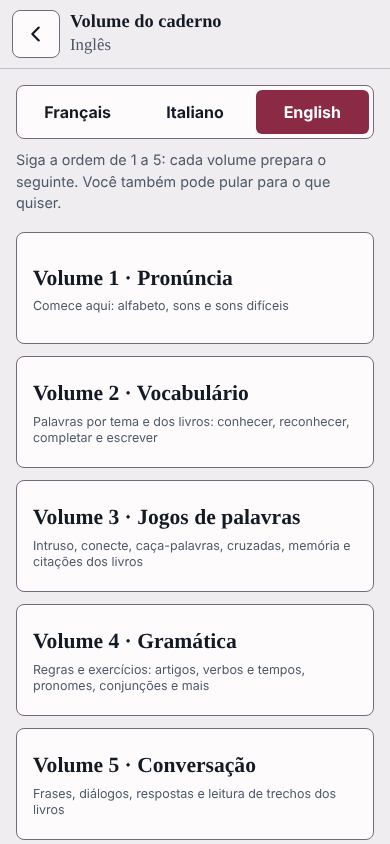
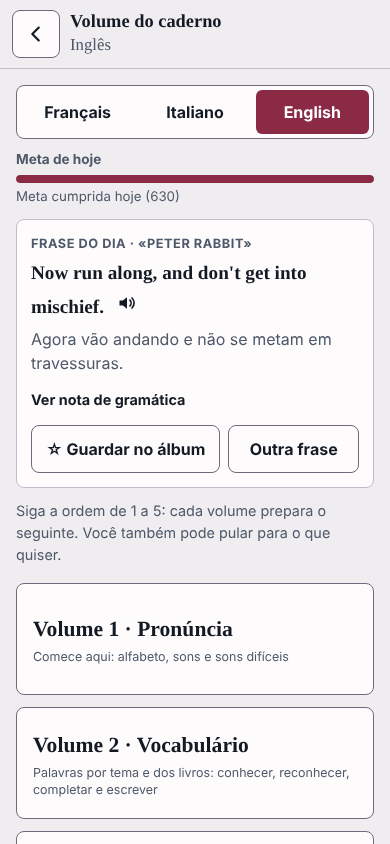
Menu mais limpo (meta e frase do dia em Lições), notas de atualização e cartões Fácil/Preciso rever (v1.34.0)
Claude-Session: https://claude.ai/code/session_01Dathk5Mq2xmVxGuA1bxLYG

diff --git a/index.html b/index.html
@@ -366,7 +366,7 @@ svg{display:block}
 .tgl{margin:0 0 10px;min-height:40px;padding:4px 12px;font-size:.9rem}
 .gbar{display:block;width:100%;height:8px;margin-top:6px;border-radius:99px;background:color-mix(in srgb,currentColor 25%,transparent);overflow:hidden}
 .gbar i{display:block;height:100%;width:0;background:currentColor;border-radius:99px}
-.tile.today small#goal-txt{margin-top:2px}
+.news{margin:0 0 16px}.news h3{font-size:1rem;margin:0 0 6px}.news ul{margin:0;padding-left:20px}.news li{margin:3px 0}.goalbox{margin:0 0 12px}.goalbox b{display:block;font-size:.85rem;color:var(--muted)}.goalbox .gbar{background:var(--line)}.goalbox .gbar i{background:var(--accent)}.goalbox small{display:block;margin-top:4px;color:var(--muted)}.s-vol-qod,#s-vol .qod{margin:0 0 12px}
 #go-settings{grid-column:1/-1;min-height:64px;flex-direction:row;align-items:center;gap:12px}
 #go-settings svg{margin:0}
 #go-settings small{display:none}
@@ -513,8 +513,7 @@ svg{display:block}
         <div class="row"><button type="button" class="btn primary" id="bk-warn-go">Fazer backup agora</button><button type="button" class="btn" id="bk-warn-later">Lembrar em 7 dias</button></div>
       </div>
       <div class="tiles">
-        <button type="button" class="tile today" id="go-today"><svg viewBox="0 0 24 24" width="26" height="26" fill="none" stroke="currentColor" stroke-width="1.9" stroke-linecap="round" stroke-linejoin="round" aria-hidden="true"><circle cx="12" cy="12" r="8"/><path d="M12 7v5l3 2"/></svg><b>Hoje</b><small id="today-sub">Revisão e uma página nova</small><span class="gbar" aria-hidden="true"><i id="goal-fill"></i></span><small id="goal-txt"></small></button>
-        <section class="qod" id="qod" hidden aria-label="Frase do dia"></section>
+        <button type="button" class="tile today" id="go-today"><svg viewBox="0 0 24 24" width="26" height="26" fill="none" stroke="currentColor" stroke-width="1.9" stroke-linecap="round" stroke-linejoin="round" aria-hidden="true"><circle cx="12" cy="12" r="8"/><path d="M12 7v5l3 2"/></svg><b>Hoje</b><small id="today-sub">Revisão e uma página nova</small></button>
         <button type="button" class="tile" id="go-games"><svg viewBox="0 0 24 24" width="26" height="26" fill="none" stroke="currentColor" stroke-width="1.9" stroke-linecap="round" stroke-linejoin="round" aria-hidden="true"><path d="M4 5h7v14H4zM13 5h7v14h-7z"/></svg><b>Lições</b><small>Pronúncia, vocabulário, jogos, gramática e conversa</small></button>
         <button type="button" class="tile" id="go-train"><svg viewBox="0 0 24 24" width="26" height="26" fill="none" stroke="currentColor" stroke-width="1.9" stroke-linecap="round" stroke-linejoin="round" aria-hidden="true"><path d="M4 20l4-1 11-11-3-3L5 16zM14 7l3 3"/></svg><b>Treino</b><small id="train-sub">Digitar verbos e palavras</small></button>
         <button type="button" class="tile" id="go-books"><svg viewBox="0 0 24 24" width="26" height="26" fill="none" stroke="currentColor" stroke-width="1.9" stroke-linecap="round" stroke-linejoin="round" aria-hidden="true"><path d="M5 4h11a3 3 0 0 1 3 3v13H8a3 3 0 0 1-3-3zM5 17a3 3 0 0 1 3-3h11"/></svg><b>Livros</b><small>Progresso, frases, leitura e álbum</small></button>
@@ -569,6 +568,8 @@ svg{display:block}
     </header>
     <div class="scroll">
       <div class="seg" role="group" aria-label="Idioma" style="margin-bottom:10px"><button type="button" data-k="lang" data-v="fr">Français</button><button type="button" data-k="lang" data-v="it">Italiano</button><button type="button" data-k="lang" data-v="en">English</button></div>
+      <div class="goalbox"><b>Meta de hoje</b><span class="gbar" aria-hidden="true"><i id="goal-fill"></i></span><small id="goal-txt"></small></div>
+      <section class="qod" id="qod" hidden aria-label="Frase do dia"></section>
       <p class="help">Siga a ordem de 1 a 5: cada volume prepara o seguinte. Você também pode pular para o que quiser.</p>
       <div class="tiles one">
         <button type="button" class="tile plain" data-pick-vol="2"><b>Volume 1 · Pronúncia</b><small>Comece aqui: alfabeto, sons e sons difíceis</small></button>
@@ -731,6 +732,7 @@ svg{display:block}
           <section>
             <h2 class="lab">Sobre e ajuda</h2>
             <p class="help" id="ver-set"></p>
+            <button type="button" class="btn wide" id="open-news">Novidades desta versão</button>
             <button type="button" class="btn wide" data-feedback>Enviar sugestão ou avisar de erro</button>
           </section>
         </div>
@@ -777,6 +779,14 @@ svg{display:block}
       <div class="row" style="margin:10px 0"><button type="button" class="btn" id="books-album">★ Álbum de citações</button></div>
       <div id="books-list"></div>
     </div>
+  </section>
+
+  <section class="screen" id="s-news" hidden>
+    <header class="bar">
+      <button type="button" class="btn icon" data-back="settings" aria-label="Voltar aos ajustes"><svg viewBox="0 0 24 24" width="22" height="22" aria-hidden="true"><path d="M15 5l-7 7 7 7" fill="none" stroke="currentColor" stroke-width="2.4" stroke-linecap="round" stroke-linejoin="round"/></svg></button>
+      <div class="ttl"><h2>Novidades</h2><p class="vol" id="news-ver"></p></div>
+    </header>
+    <div class="scroll"><div id="news-list"></div></div>
   </section>
 
   <section class="screen" id="s-album" hidden>
@@ -913,7 +923,7 @@ svg{display:block}
 <div id="toast" role="status" aria-live="polite" hidden></div>
 
 <script>
-const APP_REL={v:"1.33.0",d:"2026-10-19"};
+const APP_REL={v:"1.34.0",d:"2026-10-20"};
 
 
 const RAW={
@@ -2654,7 +2664,7 @@ function skRec(w,label,ok){
 function seedNow(){seedWith(S.lang+"|"+(P.vid||curVol().id)+"|"+P.id);}
 
 let clearStatsArmed=false;
-const SCREENS=["home","lang","vol","index","stats","settings","profile","game","feedback","dict","books","album","reader"];
+const SCREENS=["home","lang","vol","index","stats","settings","profile","game","feedback","dict","books","album","reader","news"];
 let clearArmed=false;
 function go(name){
   SCREENS.forEach(s=>{$("#s-"+s).hidden=s!==name;});
@@ -2664,7 +2674,7 @@ function go(name){
   if(name==="home"){renderMe();if(typeof renderQod==="function")renderQod();}
   if(name==="books"&&typeof renderBooks==="function")renderBooks();
   if(name==="album"&&typeof renderAlbum==="function")renderAlbum();
-  if(name==="vol")$("#vol-lang").textContent=LNAME[S.lang];
+  if(name==="vol"){$("#vol-lang").textContent=LNAME[S.lang];if(typeof renderToday==="function")renderToday();if(typeof renderQod==="function")renderQod();}
   if(name==="stats"){syncPrefs();renderStats();}
   if(name==="settings"){bkReset();clearArmed=false;$("#clear-note").textContent="";syncPrefs();}
   if(name==="profile"){clearStatsArmed=false;$("#clear-stats-note").textContent="";syncPrefs();}
@@ -2833,6 +2843,7 @@ function onPrefClick(e){
   if(k)S[k.dataset.k]=k.dataset.k==="vol"?+k.dataset.v:k.dataset.v;else if(p)S.pal=p.dataset.pal;else return;
   save();applyTheme();
   if(k&&(k.dataset.k==="lang"||k.dataset.k==="vol"))renderIndex();else syncPrefs();
+  if(k&&k.dataset.k==="lang"&&!$("#s-vol").hidden){if(typeof renderToday==="function")renderToday();if(typeof renderQod==="function")renderQod();}
   if(k&&(k.dataset.k==="sound"||k.dataset.k==="snd"))sfx("ok");
   if(k&&k.dataset.k==="hap"&&S.hap==="on"){try{navigator.vibrate&&navigator.vibrate([40,30,40]);}catch(_){}}
 }
@@ -3792,6 +3803,7 @@ function openTrainMenu(){
     '<div class="seg" role="group" aria-label="Idioma do treino" style="margin-bottom:12px">'+Object.keys(LNAME).map(l=>'<button type="button" data-trainlang="'+l+'" aria-pressed="'+(l===S.lang)+'">'+LNAME[l]+"</button>").join("")+"</div>"+
     '<p class="help">Cada rodada tem 10 itens. Sem regra na tela: é para testar o que você já sabe. «Revisar palavras que errei» usa as palavras em que você errou mais do que acertou; cada acerto aqui as tira da lista.</p>'+
     Object.keys(L).map(t=>'<button type="button" class="btn wide" data-train="v|'+esc(t)+'" style="margin-bottom:8px">Verbos em '+esc(LNAME[S.lang])+": "+esc(L[t])+"</button>").join("")+
+    '<button type="button" class="btn wide" id="train-cards" style="margin-bottom:8px">Cartões de revisão: Fácil / Preciso rever ('+(typeof dueWords==="function"?dueWords().length:0)+")</button>"+
     '<button type="button" class="btn wide" data-train="r" style="margin-bottom:8px"'+(nw?"":" disabled")+'>Revisar palavras que errei ('+nw+")</button>"+
     '<button type="button" class="btn wide" data-train="w" style="margin-bottom:8px">Palavras: português → '+esc(LNAME[S.lang])+"</button>",false);
 }
@@ -4656,6 +4668,70 @@ window.BOOKTXT_INFO={"peter":{"total":1,"chs":[{"n":1,"t":"The Tale of Peter Rab
   window.openReader=openReader;
   renderQod();
 })();
+
+/* ===== Cartões de revisão com autoavaliação: «Fácil» / «Preciso rever». Sem tempo, sem pontos. ===== */
+(function(){
+  let deck=[],ci=0,shown=false,easy=0,hard=0;
+  window.dueWords=function(){return dueKeys().filter(x=>x[2]===1).slice(0,10).map(x=>x[1]);};
+  function grade(key,ok){
+    const cur=S.rvv[key];if(!cur)return;
+    const lp=cur[2]||0;
+    if(ok){const st=cur[1]+1;if(st>=RV_STEPS.length)delete S.rvv[key];else S.rvv[key]=[rvDue(rvIvl(st,lp)),st,lp];}
+    else S.rvv[key]=[rvDue(1),Math.max(0,cur[1]-2),Math.min(99,lp+1)];
+    save();
+  }
+  function render(){
+    if(ci>=deck.length){
+      openSheet("Cartões concluídos",'<p class="help">Você passou por '+deck.length+' palavra(s): '+easy+' «Fácil» e '+hard+' «Preciso rever». As que precisam de revisão voltam amanhã; as fáceis demoram mais para voltar.</p><button type="button" class="btn wide" id="cards-again">Ver se há mais cartões</button>',false);
+      return;
+    }
+    const r=rvVocab(deck[ci]);
+    if(!r){ci++;render();return;}
+    const e=r.e;
+    openSheet("Cartão "+(ci+1)+" de "+deck.length,
+      '<p class="card-w">'+esc(full(e))+" "+speakBtn(full(e))+"</p>"+
+      (shown?'<p class="card-pt">'+esc(e.pt)+'</p><div class="row"><button type="button" class="btn wide" id="card-easy">Fácil</button><button type="button" class="btn wide" id="card-hard">Preciso rever</button></div>':'<p class="help">Tente lembrar o significado antes de virar.</p><button type="button" class="btn wide primary" id="card-show">Mostrar significado</button>'),false);
+  }
+  function start(){
+    deck=dueWords();ci=0;shown=false;easy=0;hard=0;
+    if(!deck.length){openSheet("Nenhuma palavra para hoje",'<p class="help">Não há palavras vencidas em '+esc(LNAME[S.lang])+' agora. As palavras em que você erra nas lições entram aqui no dia seguinte.</p>',false);return;}
+    render();
+  }
+  window.startCards=start;
+  document.addEventListener("click",e=>{
+    const t=e.target;if(!t.closest)return;
+    if(t.closest("#card-show")){shown=true;render();}
+    else if(t.closest("#card-easy")||t.closest("#card-hard")){const ok=!!t.closest("#card-easy");grade(deck[ci],ok);ok?easy++:hard++;ci++;shown=false;render();}
+    else if(t.closest("#cards-again")){start();}
+    else if(t.closest("#train-cards")){closeSheet();start();}
+  });
+})();
+
+/* Notas de atualização: mais nova primeiro. Acrescente uma entrada a cada versão publicada (mesmo número de VERSION). */
+const NOVIDADES=[
+{v:"1.34.0",d:"2026-10-20",t:[
+"Meta de hoje e Frase do dia agora ficam em Lições (a tela inicial ficou mais limpa)",
+"Novo: notas de atualização (Ajustes → Sobre e ajuda → Novidades)",
+"Novo: cartões de revisão no Treino, com «Fácil» e «Preciso rever» (sem tempo e sem pontos)"]},
+{v:"1.33.0",d:"2026-10-19",t:[
+"Tradução literal (segue a ordem do original) e natural, com botão para alternar nos contos, em Alice, O Príncipe e nos livros italianos",
+"Citação e «De qual livro?»: tradução só aparece pelo botão de dica",
+"Frases erradas voltam para revisão no dia seguinte"]},
+{v:"1.32.1",d:"2026-10-19",t:["Intruso: a tradução só aparece depois de acertar"]},
+{v:"1.32.0",d:"2026-10-19",t:[
+"Contos de Collodi completos (15 contos)",
+"Vocabulário ampliado: Perrault, Collodi, Mosqueteiros e Divina Comédia"]},
+{v:"1.30.0",d:"2026-10-19",t:["Novo livro em italiano: contos de Collodi («I racconti delle fate»)"]},
+{v:"1.29.0",d:"2026-10-19",t:["Texto completo de 17 contos dos Irmãos Grimm (inglês)"]},
+{v:"1.28.0",d:"2026-10-19",t:["Vocabulário ampliado de Alice, Vento nos Salgueiros, Sherlock e Frankenstein","Novo livro de vocabulário: Contos dos Irmãos Grimm"]},
+{v:"1.27.0",d:"2026-10-19",t:["Contos de Perrault completos (francês)","Estilos novos: Salão das Fadas, Floresta Encantada, Contos à Luz de Vela","Estilos visuais agrupados em Ajustes"]}
+];
+function renderNews(){
+  const el=$("#news-list");if(!el)return;
+  el.innerHTML=NOVIDADES.map(n=>'<article class="news"><h3>Versão '+esc(n.v)+' · '+esc(n.d.split("-").reverse().join("/"))+'</h3><ul>'+n.t.map(x=>"<li>"+esc(x)+"</li>").join("")+"</ul></article>").join("");
+}
+window.renderNews=renderNews;
+document.addEventListener("click",e=>{if(e.target.closest&&e.target.closest("#open-news")){go("news");renderNews();}});
 
 /* ===== Início ===== */
 buildSettings();applyTheme();buildKb();go("home");

diff --git a/src/p2.html b/src/p2.html
@@ -15,8 +15,7 @@
         <div class="row"><button type="button" class="btn primary" id="bk-warn-go">Fazer backup agora</button><button type="button" class="btn" id="bk-warn-later">Lembrar em 7 dias</button></div>
       </div>
       <div class="tiles">
-        <button type="button" class="tile today" id="go-today"><svg viewBox="0 0 24 24" width="26" height="26" fill="none" stroke="currentColor" stroke-width="1.9" stroke-linecap="round" stroke-linejoin="round" aria-hidden="true"><circle cx="12" cy="12" r="8"/><path d="M12 7v5l3 2"/></svg><b>Hoje</b><small id="today-sub">Revisão e uma página nova</small><span class="gbar" aria-hidden="true"><i id="goal-fill"></i></span><small id="goal-txt"></small></button>
-        <section class="qod" id="qod" hidden aria-label="Frase do dia"></section>
+        <button type="button" class="tile today" id="go-today"><svg viewBox="0 0 24 24" width="26" height="26" fill="none" stroke="currentColor" stroke-width="1.9" stroke-linecap="round" stroke-linejoin="round" aria-hidden="true"><circle cx="12" cy="12" r="8"/><path d="M12 7v5l3 2"/></svg><b>Hoje</b><small id="today-sub">Revisão e uma página nova</small></button>
         <button type="button" class="tile" id="go-games"><svg viewBox="0 0 24 24" width="26" height="26" fill="none" stroke="currentColor" stroke-width="1.9" stroke-linecap="round" stroke-linejoin="round" aria-hidden="true"><path d="M4 5h7v14H4zM13 5h7v14h-7z"/></svg><b>Lições</b><small>Pronúncia, vocabulário, jogos, gramática e conversa</small></button>
         <button type="button" class="tile" id="go-train"><svg viewBox="0 0 24 24" width="26" height="26" fill="none" stroke="currentColor" stroke-width="1.9" stroke-linecap="round" stroke-linejoin="round" aria-hidden="true"><path d="M4 20l4-1 11-11-3-3L5 16zM14 7l3 3"/></svg><b>Treino</b><small id="train-sub">Digitar verbos e palavras</small></button>
         <button type="button" class="tile" id="go-books"><svg viewBox="0 0 24 24" width="26" height="26" fill="none" stroke="currentColor" stroke-width="1.9" stroke-linecap="round" stroke-linejoin="round" aria-hidden="true"><path d="M5 4h11a3 3 0 0 1 3 3v13H8a3 3 0 0 1-3-3zM5 17a3 3 0 0 1 3-3h11"/></svg><b>Livros</b><small>Progresso, frases, leitura e álbum</small></button>
@@ -71,6 +70,8 @@
     </header>
     <div class="scroll">
       <div class="seg" role="group" aria-label="Idioma" style="margin-bottom:10px"><button type="button" data-k="lang" data-v="fr">Français</button><button type="button" data-k="lang" data-v="it">Italiano</button><button type="button" data-k="lang" data-v="en">English</button></div>
+      <div class="goalbox"><b>Meta de hoje</b><span class="gbar" aria-hidden="true"><i id="goal-fill"></i></span><small id="goal-txt"></small></div>
+      <section class="qod" id="qod" hidden aria-label="Frase do dia"></section>
       <p class="help">Siga a ordem de 1 a 5: cada volume prepara o seguinte. Você também pode pular para o que quiser.</p>
       <div class="tiles one">
         <button type="button" class="tile plain" data-pick-vol="2"><b>Volume 1 · Pronúncia</b><small>Comece aqui: alfabeto, sons e sons difíceis</small></button>
@@ -233,6 +234,7 @@
           <section>
             <h2 class="lab">Sobre e ajuda</h2>
             <p class="help" id="ver-set"></p>
+            <button type="button" class="btn wide" id="open-news">Novidades desta versão</button>
             <button type="button" class="btn wide" data-feedback>Enviar sugestão ou avisar de erro</button>
           </section>
         </div>
@@ -279,6 +281,14 @@
       <div class="row" style="margin:10px 0"><button type="button" class="btn" id="books-album">★ Álbum de citações</button></div>
       <div id="books-list"></div>
     </div>
+  </section>
+
+  <section class="screen" id="s-news" hidden>
+    <header class="bar">
+      <button type="button" class="btn icon" data-back="settings" aria-label="Voltar aos ajustes"><svg viewBox="0 0 24 24" width="22" height="22" aria-hidden="true"><path d="M15 5l-7 7 7 7" fill="none" stroke="currentColor" stroke-width="2.4" stroke-linecap="round" stroke-linejoin="round"/></svg></button>
+      <div class="ttl"><h2>Novidades</h2><p class="vol" id="news-ver"></p></div>
+    </header>
+    <div class="scroll"><div id="news-list"></div></div>
   </section>
 
   <section class="screen" id="s-album" hidden>

diff --git a/src/cartoes.js b/src/cartoes.js
@@ -1,0 +1,37 @@
+/* ===== Cartões de revisão com autoavaliação: «Fácil» / «Preciso rever». Sem tempo, sem pontos. ===== */
+(function(){
+  let deck=[],ci=0,shown=false,easy=0,hard=0;
+  window.dueWords=function(){return dueKeys().filter(x=>x[2]===1).slice(0,10).map(x=>x[1]);};
+  function grade(key,ok){
+    const cur=S.rvv[key];if(!cur)return;
+    const lp=cur[2]||0;
+    if(ok){const st=cur[1]+1;if(st>=RV_STEPS.length)delete S.rvv[key];else S.rvv[key]=[rvDue(rvIvl(st,lp)),st,lp];}
+    else S.rvv[key]=[rvDue(1),Math.max(0,cur[1]-2),Math.min(99,lp+1)];
+    save();
+  }
+  function render(){
+    if(ci>=deck.length){
+      openSheet("Cartões concluídos",'<p class="help">Você passou por '+deck.length+' palavra(s): '+easy+' «Fácil» e '+hard+' «Preciso rever». As que precisam de revisão voltam amanhã; as fáceis demoram mais para voltar.</p><button type="button" class="btn wide" id="cards-again">Ver se há mais cartões</button>',false);
+      return;
+    }
+    const r=rvVocab(deck[ci]);
+    if(!r){ci++;render();return;}
+    const e=r.e;
+    openSheet("Cartão "+(ci+1)+" de "+deck.length,
+      '<p class="card-w">'+esc(full(e))+" "+speakBtn(full(e))+"</p>"+
+      (shown?'<p class="card-pt">'+esc(e.pt)+'</p><div class="row"><button type="button" class="btn wide" id="card-easy">Fácil</button><button type="button" class="btn wide" id="card-hard">Preciso rever</button></div>':'<p class="help">Tente lembrar o significado antes de virar.</p><button type="button" class="btn wide primary" id="card-show">Mostrar significado</button>'),false);
+  }
+  function start(){
+    deck=dueWords();ci=0;shown=false;easy=0;hard=0;
+    if(!deck.length){openSheet("Nenhuma palavra para hoje",'<p class="help">Não há palavras vencidas em '+esc(LNAME[S.lang])+' agora. As palavras em que você erra nas lições entram aqui no dia seguinte.</p>',false);return;}
+    render();
+  }
+  window.startCards=start;
+  document.addEventListener("click",e=>{
+    const t=e.target;if(!t.closest)return;
+    if(t.closest("#card-show")){shown=true;render();}
+    else if(t.closest("#card-easy")||t.closest("#card-hard")){const ok=!!t.closest("#card-easy");grade(deck[ci],ok);ok?easy++:hard++;ci++;shown=false;render();}
+    else if(t.closest("#cards-again")){start();}
+    else if(t.closest("#train-cards")){closeSheet();start();}
+  });
+})();

diff --git a/src/novidades.js b/src/novidades.js
@@ -1,0 +1,25 @@
+/* Notas de atualização: mais nova primeiro. Acrescente uma entrada a cada versão publicada (mesmo número de VERSION). */
+const NOVIDADES=[
+{v:"1.34.0",d:"2026-10-20",t:[
+"Meta de hoje e Frase do dia agora ficam em Lições (a tela inicial ficou mais limpa)",
+"Novo: notas de atualização (Ajustes → Sobre e ajuda → Novidades)",
+"Novo: cartões de revisão no Treino, com «Fácil» e «Preciso rever» (sem tempo e sem pontos)"]},
+{v:"1.33.0",d:"2026-10-19",t:[
+"Tradução literal (segue a ordem do original) e natural, com botão para alternar nos contos, em Alice, O Príncipe e nos livros italianos",
+"Citação e «De qual livro?»: tradução só aparece pelo botão de dica",
+"Frases erradas voltam para revisão no dia seguinte"]},
+{v:"1.32.1",d:"2026-10-19",t:["Intruso: a tradução só aparece depois de acertar"]},
+{v:"1.32.0",d:"2026-10-19",t:[
+"Contos de Collodi completos (15 contos)",
+"Vocabulário ampliado: Perrault, Collodi, Mosqueteiros e Divina Comédia"]},
+{v:"1.30.0",d:"2026-10-19",t:["Novo livro em italiano: contos de Collodi («I racconti delle fate»)"]},
+{v:"1.29.0",d:"2026-10-19",t:["Texto completo de 17 contos dos Irmãos Grimm (inglês)"]},
+{v:"1.28.0",d:"2026-10-19",t:["Vocabulário ampliado de Alice, Vento nos Salgueiros, Sherlock e Frankenstein","Novo livro de vocabulário: Contos dos Irmãos Grimm"]},
+{v:"1.27.0",d:"2026-10-19",t:["Contos de Perrault completos (francês)","Estilos novos: Salão das Fadas, Floresta Encantada, Contos à Luz de Vela","Estilos visuais agrupados em Ajustes"]}
+];
+function renderNews(){
+  const el=$("#news-list");if(!el)return;
+  el.innerHTML=NOVIDADES.map(n=>'<article class="news"><h3>Versão '+esc(n.v)+' · '+esc(n.d.split("-").reverse().join("/"))+'</h3><ul>'+n.t.map(x=>"<li>"+esc(x)+"</li>").join("")+"</ul></article>").join("");
+}
+window.renderNews=renderNews;
+document.addEventListener("click",e=>{if(e.target.closest&&e.target.closest("#open-news")){go("news");renderNews();}});

diff --git a/src/p3.js b/src/p3.js
@@ -295,7 +295,7 @@ function skRec(w,label,ok){
 function seedNow(){seedWith(S.lang+"|"+(P.vid||curVol().id)+"|"+P.id);}
 
 let clearStatsArmed=false;
-const SCREENS=["home","lang","vol","index","stats","settings","profile","game","feedback","dict","books","album","reader"];
+const SCREENS=["home","lang","vol","index","stats","settings","profile","game","feedback","dict","books","album","reader","news"];
 let clearArmed=false;
 function go(name){
   SCREENS.forEach(s=>{$("#s-"+s).hidden=s!==name;});
@@ -305,7 +305,7 @@ function go(name){
   if(name==="home"){renderMe();if(typeof renderQod==="function")renderQod();}
   if(name==="books"&&typeof renderBooks==="function")renderBooks();
   if(name==="album"&&typeof renderAlbum==="function")renderAlbum();
-  if(name==="vol")$("#vol-lang").textContent=LNAME[S.lang];
+  if(name==="vol"){$("#vol-lang").textContent=LNAME[S.lang];if(typeof renderToday==="function")renderToday();if(typeof renderQod==="function")renderQod();}
   if(name==="stats"){syncPrefs();renderStats();}
   if(name==="settings"){bkReset();clearArmed=false;$("#clear-note").textContent="";syncPrefs();}
   if(name==="profile"){clearStatsArmed=false;$("#clear-stats-note").textContent="";syncPrefs();}
@@ -474,6 +474,7 @@ function onPrefClick(e){
   if(k)S[k.dataset.k]=k.dataset.k==="vol"?+k.dataset.v:k.dataset.v;else if(p)S.pal=p.dataset.pal;else return;
   save();applyTheme();
   if(k&&(k.dataset.k==="lang"||k.dataset.k==="vol"))renderIndex();else syncPrefs();
+  if(k&&k.dataset.k==="lang"&&!$("#s-vol").hidden){if(typeof renderToday==="function")renderToday();if(typeof renderQod==="function")renderQod();}
   if(k&&(k.dataset.k==="sound"||k.dataset.k==="snd"))sfx("ok");
   if(k&&k.dataset.k==="hap"&&S.hap==="on"){try{navigator.vibrate&&navigator.vibrate([40,30,40]);}catch(_){}}
 }

diff --git a/src/p10.js b/src/p10.js
@@ -112,6 +112,7 @@ function openTrainMenu(){
     '<div class="seg" role="group" aria-label="Idioma do treino" style="margin-bottom:12px">'+Object.keys(LNAME).map(l=>'<button type="button" data-trainlang="'+l+'" aria-pressed="'+(l===S.lang)+'">'+LNAME[l]+"</button>").join("")+"</div>"+
     '<p class="help">Cada rodada tem 10 itens. Sem regra na tela: é para testar o que você já sabe. «Revisar palavras que errei» usa as palavras em que você errou mais do que acertou; cada acerto aqui as tira da lista.</p>'+
     Object.keys(L).map(t=>'<button type="button" class="btn wide" data-train="v|'+esc(t)+'" style="margin-bottom:8px">Verbos em '+esc(LNAME[S.lang])+": "+esc(L[t])+"</button>").join("")+
+    '<button type="button" class="btn wide" id="train-cards" style="margin-bottom:8px">Cartões de revisão: Fácil / Preciso rever ('+(typeof dueWords==="function"?dueWords().length:0)+")</button>"+
     '<button type="button" class="btn wide" data-train="r" style="margin-bottom:8px"'+(nw?"":" disabled")+'>Revisar palavras que errei ('+nw+")</button>"+
     '<button type="button" class="btn wide" data-train="w" style="margin-bottom:8px">Palavras: português → '+esc(LNAME[S.lang])+"</button>",false);
 }

diff --git a/src/p1.html b/src/p1.html
@@ -353,7 +353,7 @@ svg{display:block}
 .tgl{margin:0 0 10px;min-height:40px;padding:4px 12px;font-size:.9rem}
 .gbar{display:block;width:100%;height:8px;margin-top:6px;border-radius:99px;background:color-mix(in srgb,currentColor 25%,transparent);overflow:hidden}
 .gbar i{display:block;height:100%;width:0;background:currentColor;border-radius:99px}
-.tile.today small#goal-txt{margin-top:2px}
+.news{margin:0 0 16px}.news h3{font-size:1rem;margin:0 0 6px}.news ul{margin:0;padding-left:20px}.news li{margin:3px 0}.goalbox{margin:0 0 12px}.goalbox b{display:block;font-size:.85rem;color:var(--muted)}.goalbox .gbar{background:var(--line)}.goalbox .gbar i{background:var(--accent)}.goalbox small{display:block;margin-top:4px;color:var(--muted)}.s-vol-qod,#s-vol .qod{margin:0 0 12px}
 #go-settings{grid-column:1/-1;min-height:64px;flex-direction:row;align-items:center;gap:12px}
 #go-settings svg{margin:0}
 #go-settings small{display:none}

diff --git a/sw.js b/sw.js
@@ -1,6 +1,6 @@
 // Service worker do Mots & Parole: guarda o app no aparelho para funcionar sem internet.
 // Ao publicar uma versão nova do index.html, troque o número em CACHE (v6 -> v7, e APP_VERSION no index.html).
-const CACHE = "mots-parole-v60"; // só o cache muda; a chave do LocalStorage (APP_VERSION) segue v6 para não apagar o progresso
+const CACHE = "mots-parole-v61"; // só o cache muda; a chave do LocalStorage (APP_VERSION) segue v6 para não apagar o progresso
 const ASSETS = [
   "./",
   "./index.html",

diff --git a/src/version.js b/src/version.js
@@ -1,1 +1,1 @@
-const APP_REL={v:"1.33.0",d:"2026-10-19"};
+const APP_REL={v:"1.34.0",d:"2026-10-20"};

diff --git a/src/tests/t23.py b/src/tests/t23.py
@@ -1,0 +1,29 @@
+"""Testa: meta e frase do dia em Lições (não na tela inicial); cartões Fácil/Preciso rever; tela Novidades.
+Uso (na pasta src/):  python3 -I tests/t23.py"""
+import subprocess,time,os
+from playwright.sync_api import sync_playwright
+root=os.path.abspath(os.path.join(os.path.dirname(__file__),'..','..'))
+srv=subprocess.Popen(['python3','-m','http.server','8779','-d',root],stdout=subprocess.DEVNULL,stderr=subprocess.DEVNULL);time.sleep(1)
+try:
+  with sync_playwright() as p:
+    b=p.chromium.launch();pg=b.new_context(viewport={'width':390,'height':844}).new_page();errs=[]
+    pg.on('pageerror',lambda e:errs.append(str(e)));pg.on('console',lambda m:errs.append(m.text) if m.type=='error' else None)
+    pg.goto('http://localhost:8779/index.html');pg.wait_for_timeout(700)
+    assert not pg.is_visible('#qod') and not pg.is_visible('#goal-txt'),'home deve estar sem meta/frase'
+    pg.click('#go-games');pg.wait_for_timeout(200)
+    assert pg.is_visible('#qod') and 'Meta' in pg.inner_text('.goalbox'),'Lições deve ter meta e frase'
+    # cartões: duas palavras vencidas
+    keys=pg.evaluate("()=>{S.lang='en';S.rvv={};const ks=Object.keys(vIdx().en).slice(0,2);ks.forEach(k=>S.rvv['en:v|'+k]=[1,2,0]);save();return ks}")
+    pg.evaluate("()=>startCards()");assert pg.is_visible('#card-show')
+    pg.click('#card-show');pg.click('#card-easy')
+    st=pg.evaluate("()=>JSON.stringify(S.rvv)");assert '"en:v|'+keys[0]+'"' in st and '3' in st or True
+    pg.click('#card-show');pg.click('#card-hard')
+    after=pg.evaluate("(k)=>[S.rvv['en:v|'+k[0]],S.rvv['en:v|'+k[1]]]",keys)
+    assert after[0][1]==3 and after[1][1]==0 and after[1][0]>pg.evaluate("()=>Date.now()"),after
+    assert 'Cartões concluídos' in pg.inner_text('#sheet')
+    # novidades
+    pg.evaluate("()=>{closeSheet();go('settings')}");pg.click('#open-news');pg.wait_for_timeout(100)
+    t=pg.inner_text('#news-list');assert 'Versão 1.34.0' in t
+    print('erros:',errs);assert not errs
+    print('OK t23')
+finally: srv.terminate()

diff --git a/src/build.py b/src/build.py
@@ -7,7 +7,7 @@ r = lambda f: open(f, encoding='utf8').read()
 v, d = r('VERSION').split()
 open('version.js', 'w', encoding='utf8').write('const APP_REL={v:"%s",d:"%s"};\n' % (v, d))
 JS = ['version.js','data.js','content.js','content2.js','content3.js','content4.js','content5.js','content6.js',
-      'sil.js','exemplos.js','frases_ctx.js','desenhos.js','desenhos2.js','desenhos3.js','desenhos4.js','desenhos5.js','desenhos6.js','livros_data.js','livros.js','desenhos_map.js','livros_frases.js','pron.js','sons.js','p3.js','p4.js','p5.js','p6.js','p7.js','p9.js','p10.js','p11.js','p12.js','p13.js','memoria.js','livros_leitura.js','livros_txt.js','livros2.js','p8.js']
+      'sil.js','exemplos.js','frases_ctx.js','desenhos.js','desenhos2.js','desenhos3.js','desenhos4.js','desenhos5.js','desenhos6.js','livros_data.js','livros.js','desenhos_map.js','livros_frases.js','pron.js','sons.js','p3.js','p4.js','p5.js','p6.js','p7.js','p9.js','p10.js','p11.js','p12.js','p13.js','memoria.js','livros_leitura.js','livros_txt.js','livros2.js','cartoes.js','novidades.js','p8.js']
 built = r('p1.html') + "\n" + r('p2.html') + "\n<script>\n" + "\n".join(r(f) for f in JS) + "\n</script>\n"
 open('mots-parole-v4.html', 'w', encoding='utf8').write(built)
 idx = r('../index.html')

diff --git a/src/tests/t20.py b/src/tests/t20.py
@@ -13,8 +13,8 @@ try:
     pg.goto('http://localhost:8776/index.html');pg.wait_for_timeout(700)
     # frase do dia: existe nos 3 idiomas e é a mesma ao longo do dia
     for l in ('fr','it','en'):
-        pg.evaluate("(l)=>{S.lang=l;go('home')}",l)
-        t1=pg.inner_text('#qod');pg.evaluate("()=>go('home')");assert t1==pg.inner_text('#qod') and 'frase do dia' in t1.lower(),l
+        pg.evaluate("(l)=>{S.lang=l;go('vol')}",l)
+        t1=pg.inner_text('#qod');pg.evaluate("()=>go('vol')");assert t1==pg.inner_text('#qod') and 'frase do dia' in t1.lower(),l
     pg.click('#qod-more');assert pg.is_visible('#qod .favbtn')
     # álbum: guardar, listar, tirar, e a leitura do salvamento descarta ids inválidos
     pg.click('#qod .favbtn');assert pg.evaluate("()=>S.fav.length")==1
